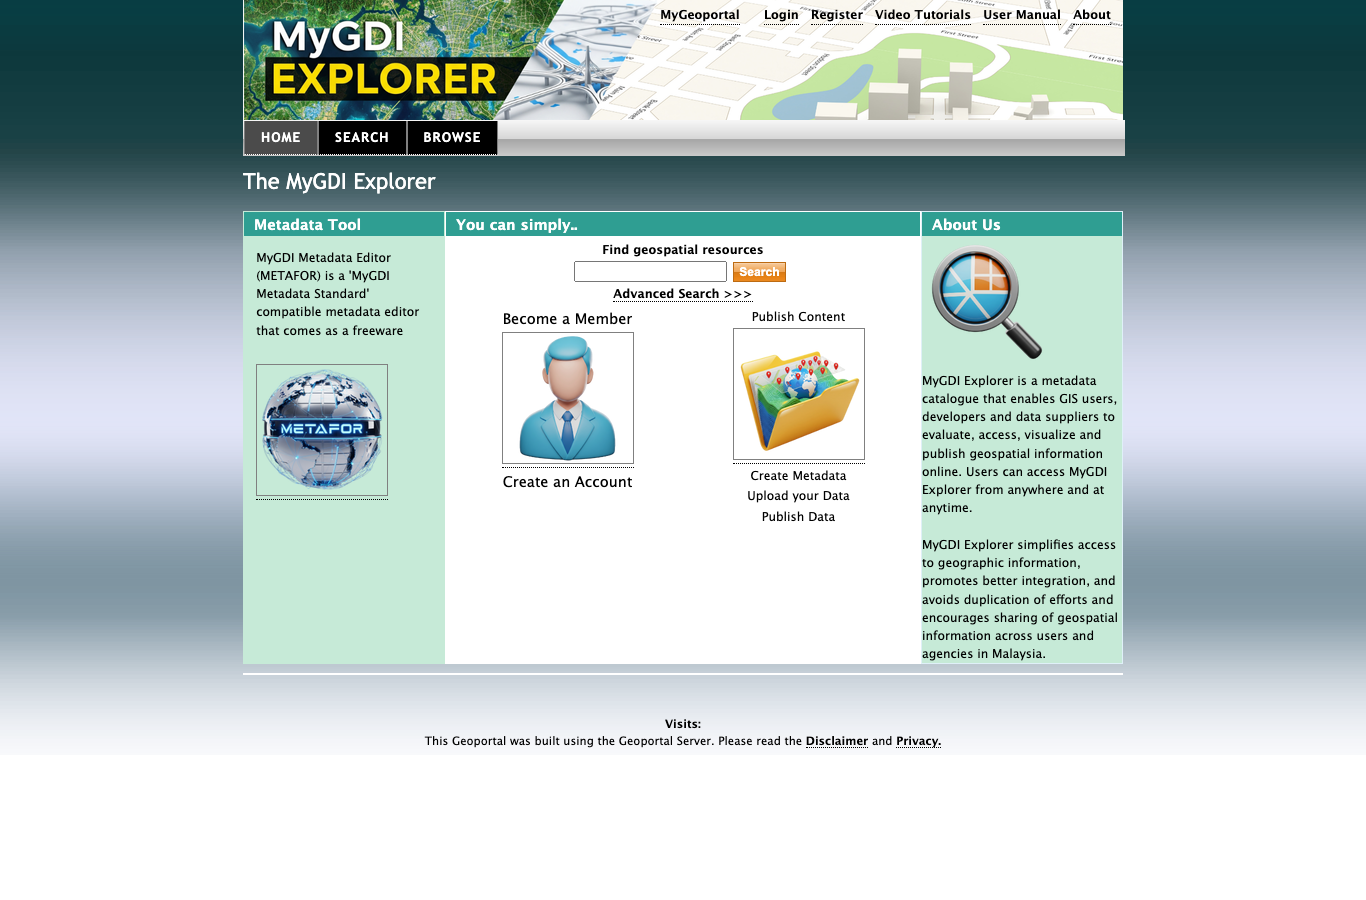
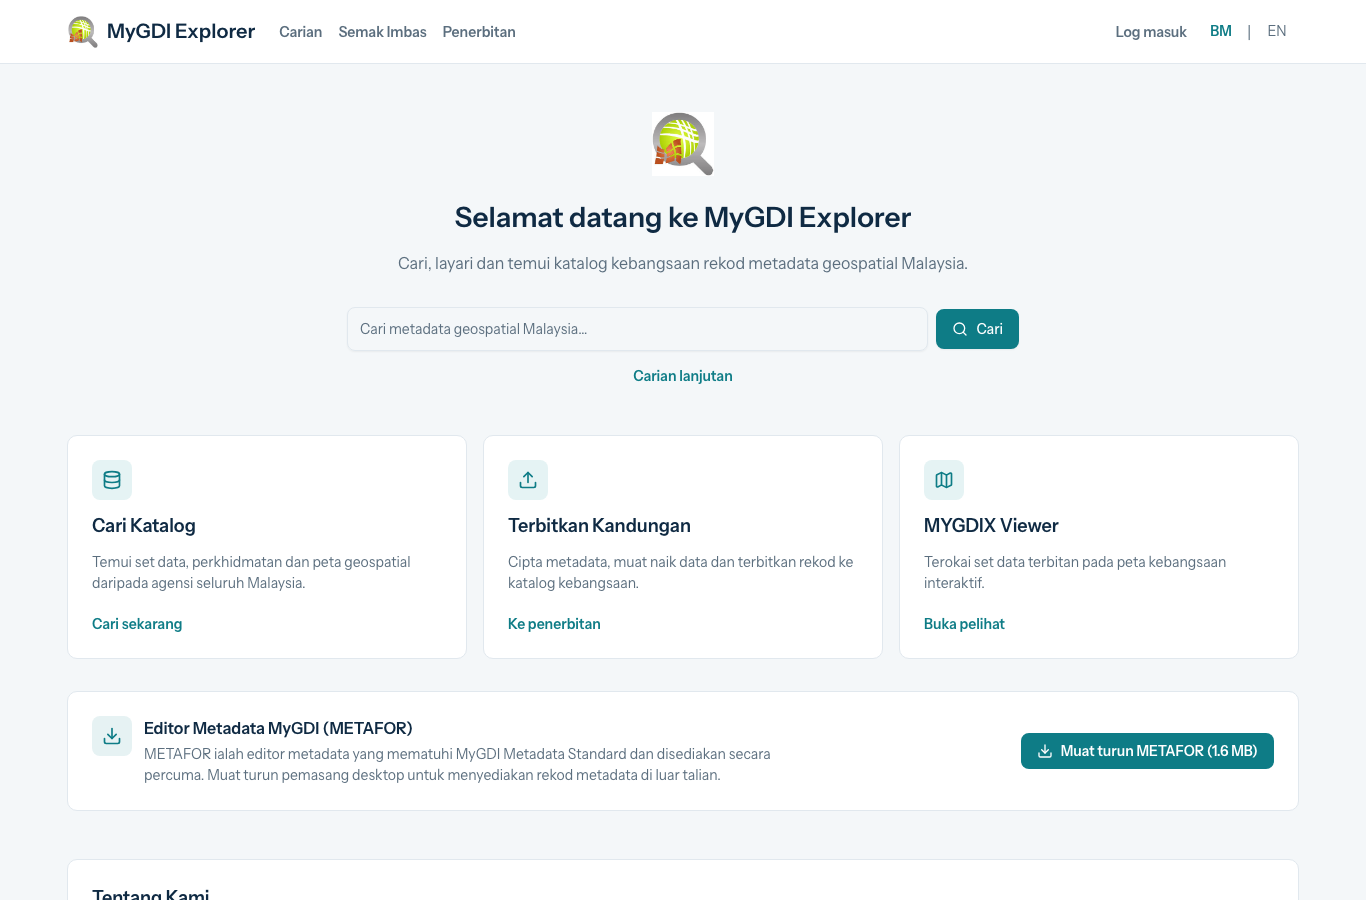
feat: add 7 more client projects + swap MyGDI to new build
Add e-GKAFA (JAIS), eKedatangan (IKMa), BookHero, ZaiPermai, Smart Docket
(Selangor Land & Mines), FIMM, and The Merdeka Times to the portfolio, each
with a screenshot cover and case study. Replace the MyGDI Explorer entry/cover
with the new Laravel 13 + React rebuild.

diff --git a/src/data/portfolio/bookhero.md b/src/data/portfolio/bookhero.md
@@ -1,0 +1,34 @@
+---
+title: "BookHero — Online Book Printing"
+client: "Wirabuku / BookHero"
+industry: "E-commerce / Printing"
+duration: "Ongoing"
+techStack:
+  - "Laravel"
+  - "FilamentPHP 4"
+  - "Inertia"
+  - "Tailwind CSS"
+  - "MySQL"
+cover: "/images/portfolio/bookhero.png"
+gallery:
+  - "/images/portfolio/bookhero.png"
+liveUrl: "https://print.wirabuku.my"
+---
+
+## The Challenge
+
+BookHero needed an online storefront for custom book printing — letting customers configure and order print jobs while giving the team a modern back office to manage the catalogue and fulfilment.
+
+## Our Approach
+
+We built the platform on Laravel with an Inertia front end and a FilamentPHP 4 admin panel:
+
+- **Customer ordering** for custom book-printing jobs.
+- **Filament admin** for catalogue, orders, and fulfilment management, secured with role-based access (Filament Shield).
+- **Modern UI** built with Inertia and Tailwind CSS 4.
+
+## Results
+
+- A self-service printing storefront for customers.
+- A streamlined admin workflow for managing orders end to end.
+- A clean, modern codebase on the latest Laravel/Filament stack.

diff --git a/src/data/portfolio/egkafa.md b/src/data/portfolio/egkafa.md
@@ -1,0 +1,34 @@
+---
+title: "e-GKAFA — JAIS KAFA Teacher System"
+client: "Jabatan Agama Islam Selangor (JAIS)"
+industry: "Government / Religious Education"
+duration: "Ongoing"
+techStack:
+  - "Laravel"
+  - "FilamentPHP 3"
+  - "Livewire"
+  - "MySQL"
+cover: "/images/portfolio/egkafa.png"
+gallery:
+  - "/images/portfolio/egkafa.png"
+liveUrl: "https://egkafa.jais.gov.my"
+---
+
+## The Challenge
+
+KAFA (Kelas Al-Quran dan Fardhu Ain) Islamic primary education across Selangor involves many teachers, classes, and administrative processes managed by Jabatan Agama Islam Selangor (JAIS). The department needed a single online system to manage teachers and operations.
+
+## Our Approach
+
+We built e-GKAFA on Laravel with a FilamentPHP back office and role-aware portals:
+
+- **Officer (Pegawai) portal** for administration, records, and oversight.
+- **Teacher (Guru) portal** for teacher-facing tasks and submissions.
+- **Multi-panel architecture** with language and panel switching.
+- **Records management** for KAFA teachers, classes, and supporting data.
+
+## Results
+
+- A centralized system for managing KAFA teachers and operations.
+- Clear separation between administrative and teacher experiences.
+- A maintainable admin interface for day-to-day departmental use.

diff --git a/src/data/portfolio/ekedatangan.md b/src/data/portfolio/ekedatangan.md
@@ -1,0 +1,34 @@
+---
+title: "eKedatangan — Biometric Attendance (IKMa)"
+client: "Institut Koperasi Malaysia (IKMa)"
+industry: "Government / Education / HR"
+duration: "Ongoing"
+techStack:
+  - "Laravel 12"
+  - "Bootstrap"
+  - "FullCalendar"
+  - "MySQL"
+cover: "/images/portfolio/ekedatangan.png"
+gallery:
+  - "/images/portfolio/ekedatangan.png"
+liveUrl: "https://ekedatanganv2.ikma.edu.my"
+---
+
+## The Challenge
+
+Institut Koperasi Malaysia (IKMa) needed a reliable, computerised way to capture and manage staff attendance, replacing manual processes with a system tied to biometric check-ins.
+
+## Our Approach
+
+We delivered eKedatangan, a Laravel 12 attendance platform:
+
+- **Biometric attendance capture** with computerised records.
+- **Leave and calendar tracking** using an interactive FullCalendar view.
+- **Reporting** for attendance summaries and staff records.
+- **Role-based access** for staff and administrators.
+
+## Results
+
+- Accurate, centralized attendance records for the institute.
+- A clear calendar view of attendance and leave.
+- A maintainable system replacing manual attendance tracking.

diff --git a/src/data/portfolio/fimm.md b/src/data/portfolio/fimm.md
@@ -1,0 +1,31 @@
+---
+title: "FIMM — Member & Compliance Portal"
+client: "Federation of Investment Managers Malaysia (FIMM)"
+industry: "Finance / Compliance"
+duration: "Ongoing"
+techStack:
+  - "PHP"
+  - "MySQL"
+cover: "/images/portfolio/fimm.png"
+gallery:
+  - "/images/portfolio/fimm.png"
+liveUrl: "https://fcs.fimm.com.my"
+---
+
+## The Challenge
+
+The Federation of Investment Managers Malaysia (FIMM) regulates and supports investment-management professionals and needed a web platform to serve its members and support compliance processes.
+
+## Our Approach
+
+We delivered a web platform supporting FIMM's member and compliance operations:
+
+- **Member services** through a dedicated portal.
+- **Compliance processes** digitised for members and administrators.
+- **Secure access** behind an enterprise web gateway.
+
+## Results
+
+- A central online channel for FIMM members.
+- Digitised compliance workflows.
+- A maintainable platform for the federation's ongoing needs.

diff --git a/src/data/portfolio/merdekatimes.md b/src/data/portfolio/merdekatimes.md
@@ -1,0 +1,31 @@
+---
+title: "The Merdeka Times — News Platform"
+client: "The Merdeka Times"
+industry: "Media / Publishing"
+duration: "Ongoing"
+techStack:
+  - "Web Platform"
+  - "CMS"
+cover: "/images/portfolio/merdekatimes.png"
+gallery:
+  - "/images/portfolio/merdekatimes.png"
+liveUrl: "https://themerdekatimes.com"
+---
+
+## The Challenge
+
+The Merdeka Times needed an online publishing platform to deliver news to readers — with editorial publishing, organised categories, and a fast public-facing portal.
+
+## Our Approach
+
+We delivered an online news and media platform:
+
+- **Article publishing** with an editorial workflow.
+- **Categorised content** for easy reader navigation.
+- **Reader-facing portal** optimised for browsing the latest news.
+
+## Results
+
+- A dedicated home for The Merdeka Times' reporting online.
+- Organised, browsable news for readers.
+- A maintainable platform for ongoing publishing.

diff --git a/src/data/portfolio/smartdocket.md b/src/data/portfolio/smartdocket.md
@@ -1,0 +1,31 @@
+---
+title: "Smart Docket — Selangor Land & Mines"
+client: "Pejabat Tanah dan Galian Negeri Selangor (PTG Selangor)"
+industry: "Government / Land Administration"
+duration: "Ongoing"
+techStack:
+  - "PHP"
+  - "MySQL"
+cover: "/images/portfolio/smartdocket.png"
+gallery:
+  - "/images/portfolio/smartdocket.png"
+liveUrl: "https://smartdocket.selangor.gov.my"
+---
+
+## The Challenge
+
+The Selangor Land & Mines Office (Pejabat Tanah dan Galian) manages permits for rock and quarry materials (bahan batuan). Processing applications, approvals, and renewals manually was slow for both officers and permit holders.
+
+## Our Approach
+
+We delivered Smart Docket, an online permit system for rock-material licensing:
+
+- **Online permit applications** for rock-material (bahan batuan) permits.
+- **Approval & renewal workflows** for new applications, annual approvals, and monthly permit renewals.
+- **Permit-holder portal** with online submission and status tracking.
+
+## Results
+
+- Digitised rock-material permit processing for the state.
+- Faster applications and renewals for permit holders.
+- A central, trackable record of permits and approvals.

diff --git a/src/data/portfolio/zaipermai.md b/src/data/portfolio/zaipermai.md
@@ -1,0 +1,31 @@
+---
+title: "ZaiPermai — Agent Management System"
+client: "ZaiPermai"
+industry: "E-commerce / Direct Sales"
+duration: "Ongoing"
+techStack:
+  - "Laravel"
+  - "MySQL"
+cover: "/images/portfolio/zaipermai.png"
+gallery:
+  - "/images/portfolio/zaipermai.png"
+liveUrl: "https://member.zaipermai.com"
+---
+
+## The Challenge
+
+ZaiPermai operates through a network of agents and needed a member system to onboard agents, track sales and commissions, and manage day-to-day member operations.
+
+## Our Approach
+
+We built a Laravel-based agent and member management platform:
+
+- **Agent onboarding** and member account management.
+- **Sales & commission tracking** across the agent network.
+- **Member operations** and a dedicated member login portal.
+
+## Results
+
+- A central platform for managing the ZaiPermai agent network.
+- Streamlined sales and commission visibility.
+- A reusable foundation for multi-brand agent systems.

diff --git a/src/data/portfolio/mygdi-explorer.md b/src/data/portfolio/mygdi-explorer.md
@@ -4,10 +4,11 @@ client: "Malaysia Centre for Geospatial Data Infrastructure (MaCGDI)"
 industry: "Government / Geospatial"
 duration: "Ongoing"
 techStack:
-  - "Java"
-  - "Apache Tomcat"
-  - "Geoportal Server"
-  - "ISO 19139 Metadata"
+  - "Laravel 13"
+  - "React"
+  - "Inertia"
+  - "Tailwind CSS"
+  - "MySQL"
 cover: "/images/portfolio/mygdi.png"
 gallery:
   - "/images/portfolio/mygdi.png"
@@ -15,19 +16,19 @@ gallery:
 
 ## The Challenge
 
-MyGDI Explorer is Malaysia's national geospatial metadata catalog — the discovery layer for thousands of geospatial datasets published by government agencies. As a long-running Geoportal Server / Tomcat deployment, it needed careful diagnostics, security hardening, and code-level fixes to stay healthy and secure.
+MyGDI Explorer is Malaysia's national geospatial metadata catalog — the discovery layer for thousands of geospatial datasets published by government agencies. The original system ran on a legacy Java geoportal stack that was difficult to maintain and dated for users.
 
 ## Our Approach
 
-We carried out a structured support and modernization engagement:
+We rebuilt MyGDI Explorer on a modern Laravel 13 + React stack:
 
-- **Evidence-based diagnosis** — collected and analyzed application logs and screenshots across the application, LDAP/identity, and database hosts to map the system and isolate issues.
-- **Patching & hardening** — produced a troubleshooting, patching, and hardening runbook covering the Tomcat/Java application stack.
-- **Code-level fixes** — documented and recommended fixes to apply to the live application source and deployment.
-- **Catalog operations** — supported a metadata catalog of 7,000+ records used to discover, manage, and publish national geospatial datasets.
+- **Catalog search & browse** — a fast, bilingual (BM / EN) interface for discovering geospatial datasets, services, and maps across all Malaysian agencies.
+- **Metadata publishing** — workflows for creating, uploading, and publishing records to the national catalog.
+- **MYGDIX viewer** — an interactive map viewer for exploring published datasets on a national basemap.
+- **METAFOR** — a downloadable metadata editor compliant with the MyGDI metadata standard for offline record creation.
 
 ## Results
 
-- A clear, documented picture of the system's hosts, issues, and remediation steps.
-- A repeatable hardening and patching runbook for ongoing maintenance.
-- Concrete code and configuration fixes to improve stability and security.
+- A modern, responsive replacement for the legacy geoportal experience.
+- Bilingual, user-friendly discovery over the national geospatial catalog.
+- A maintainable Laravel/React codebase ready for ongoing enhancement.